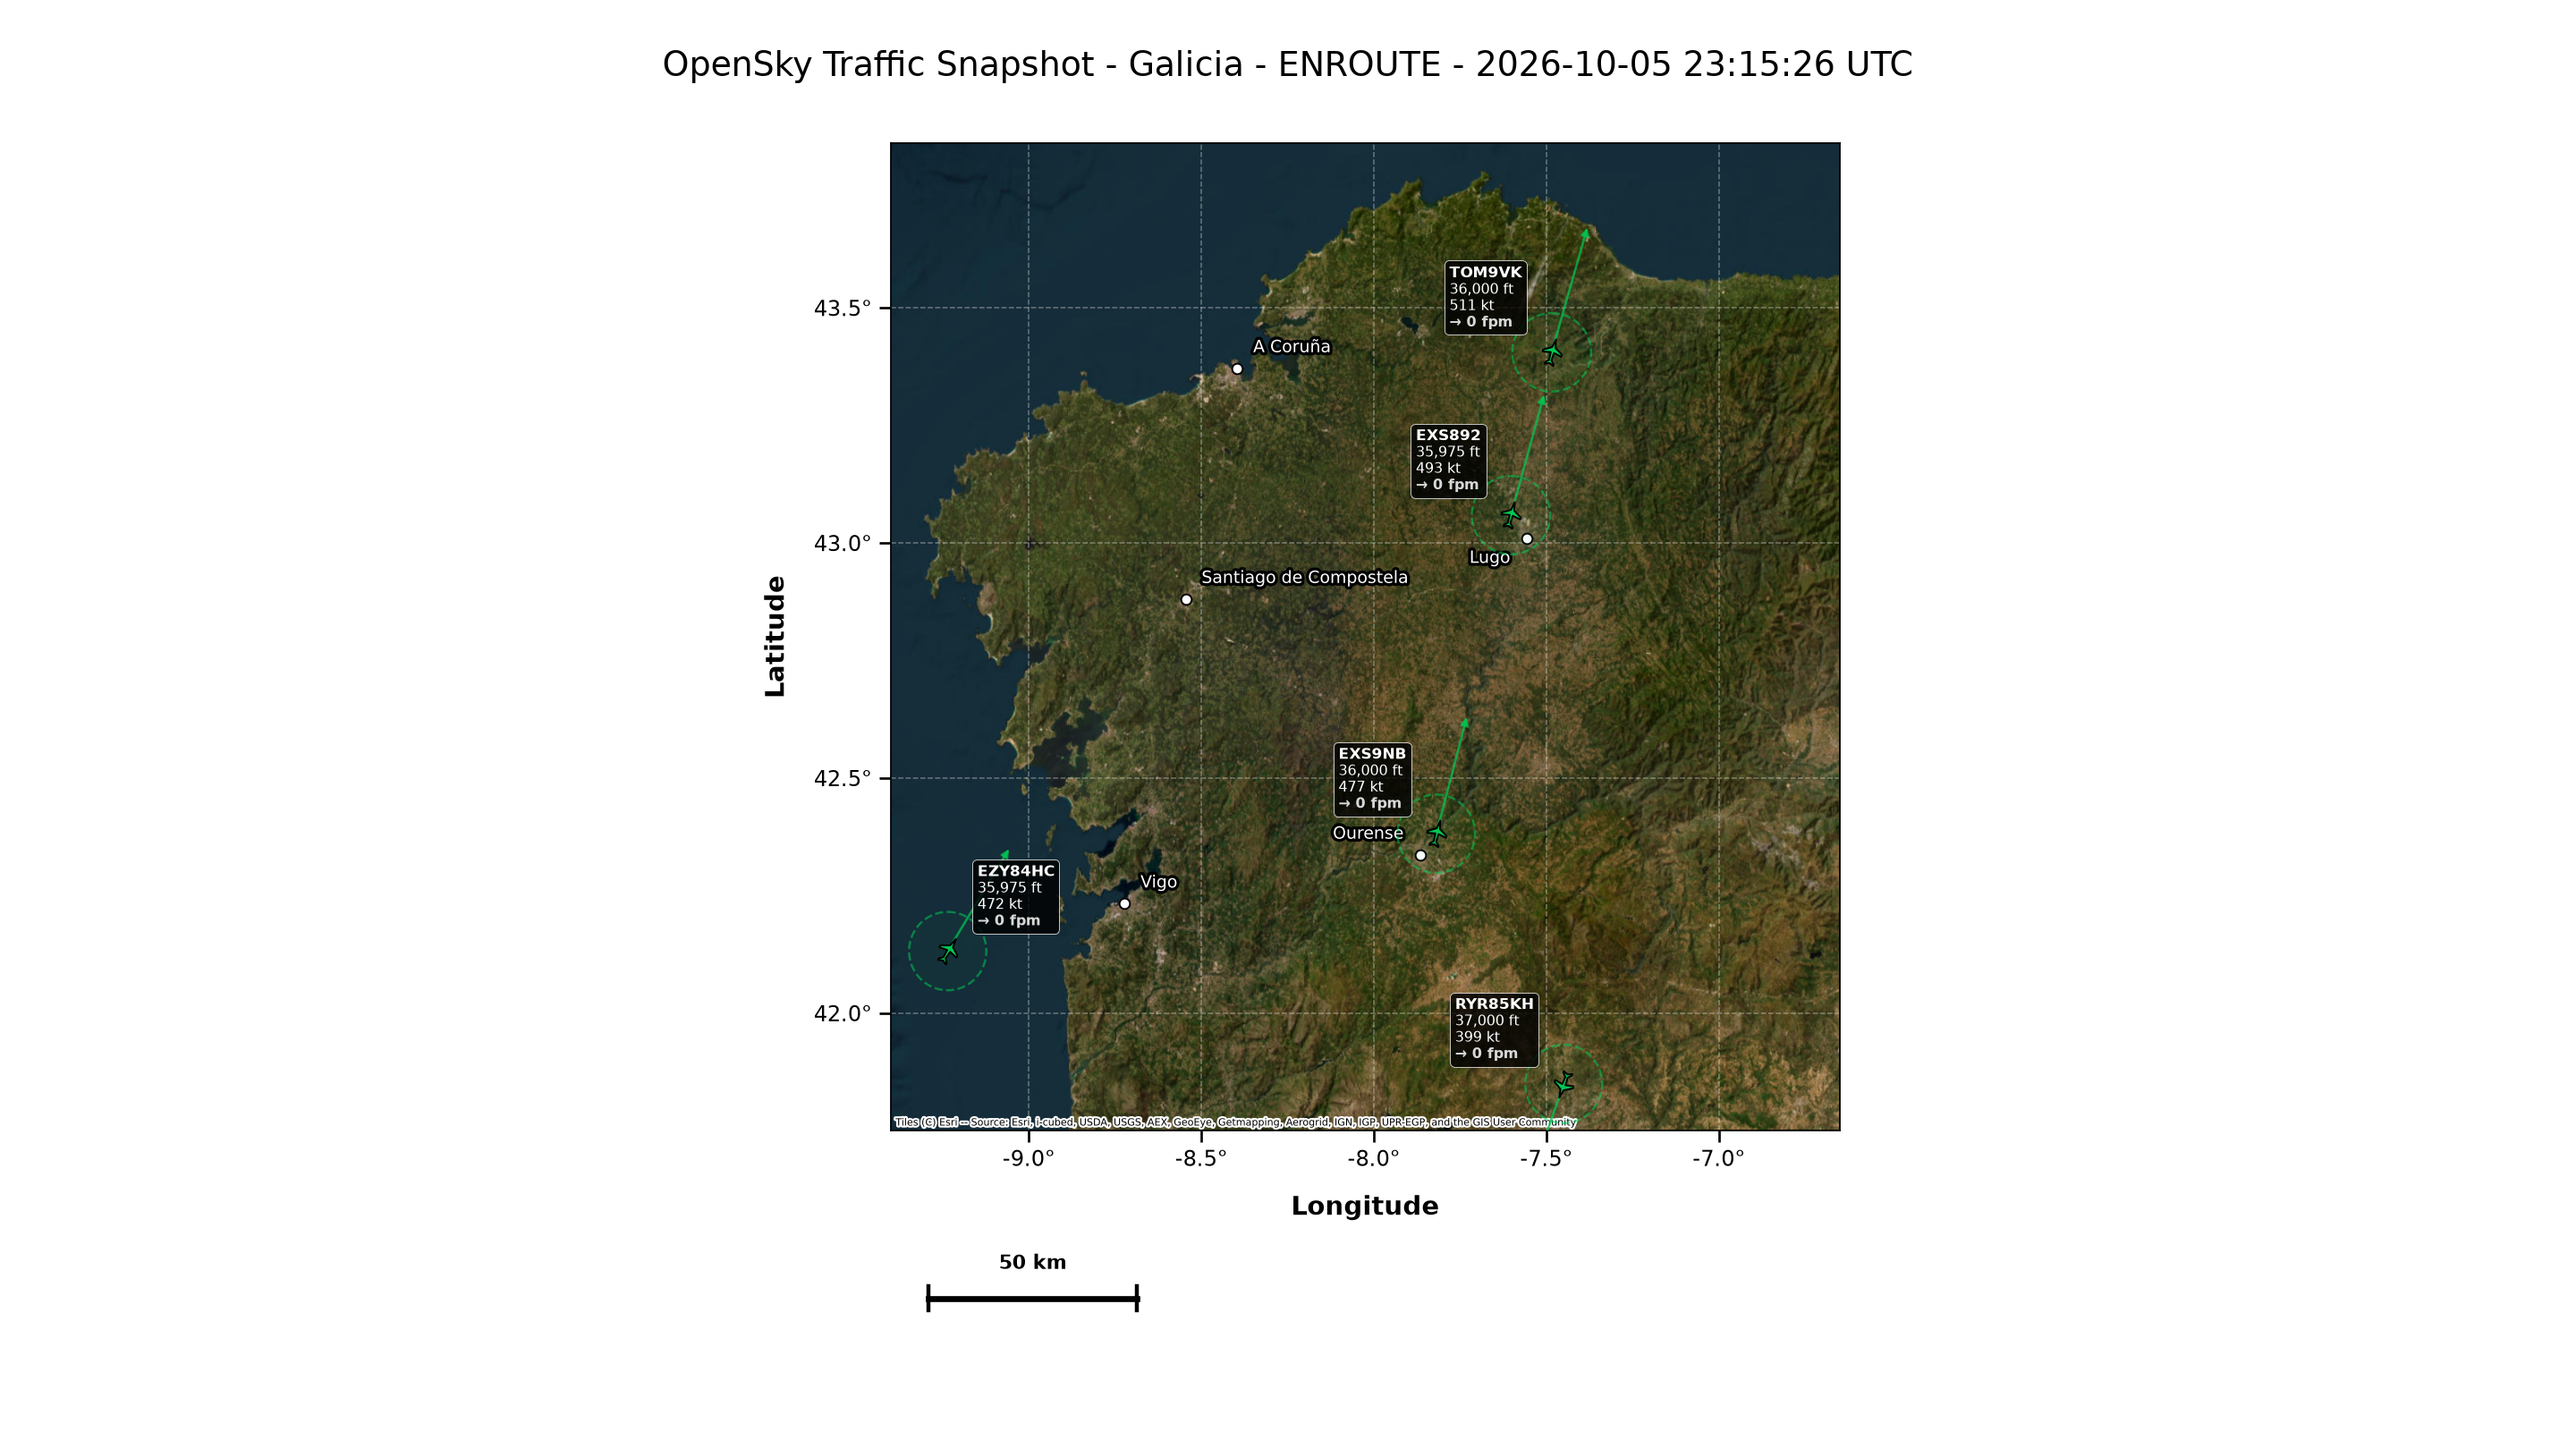
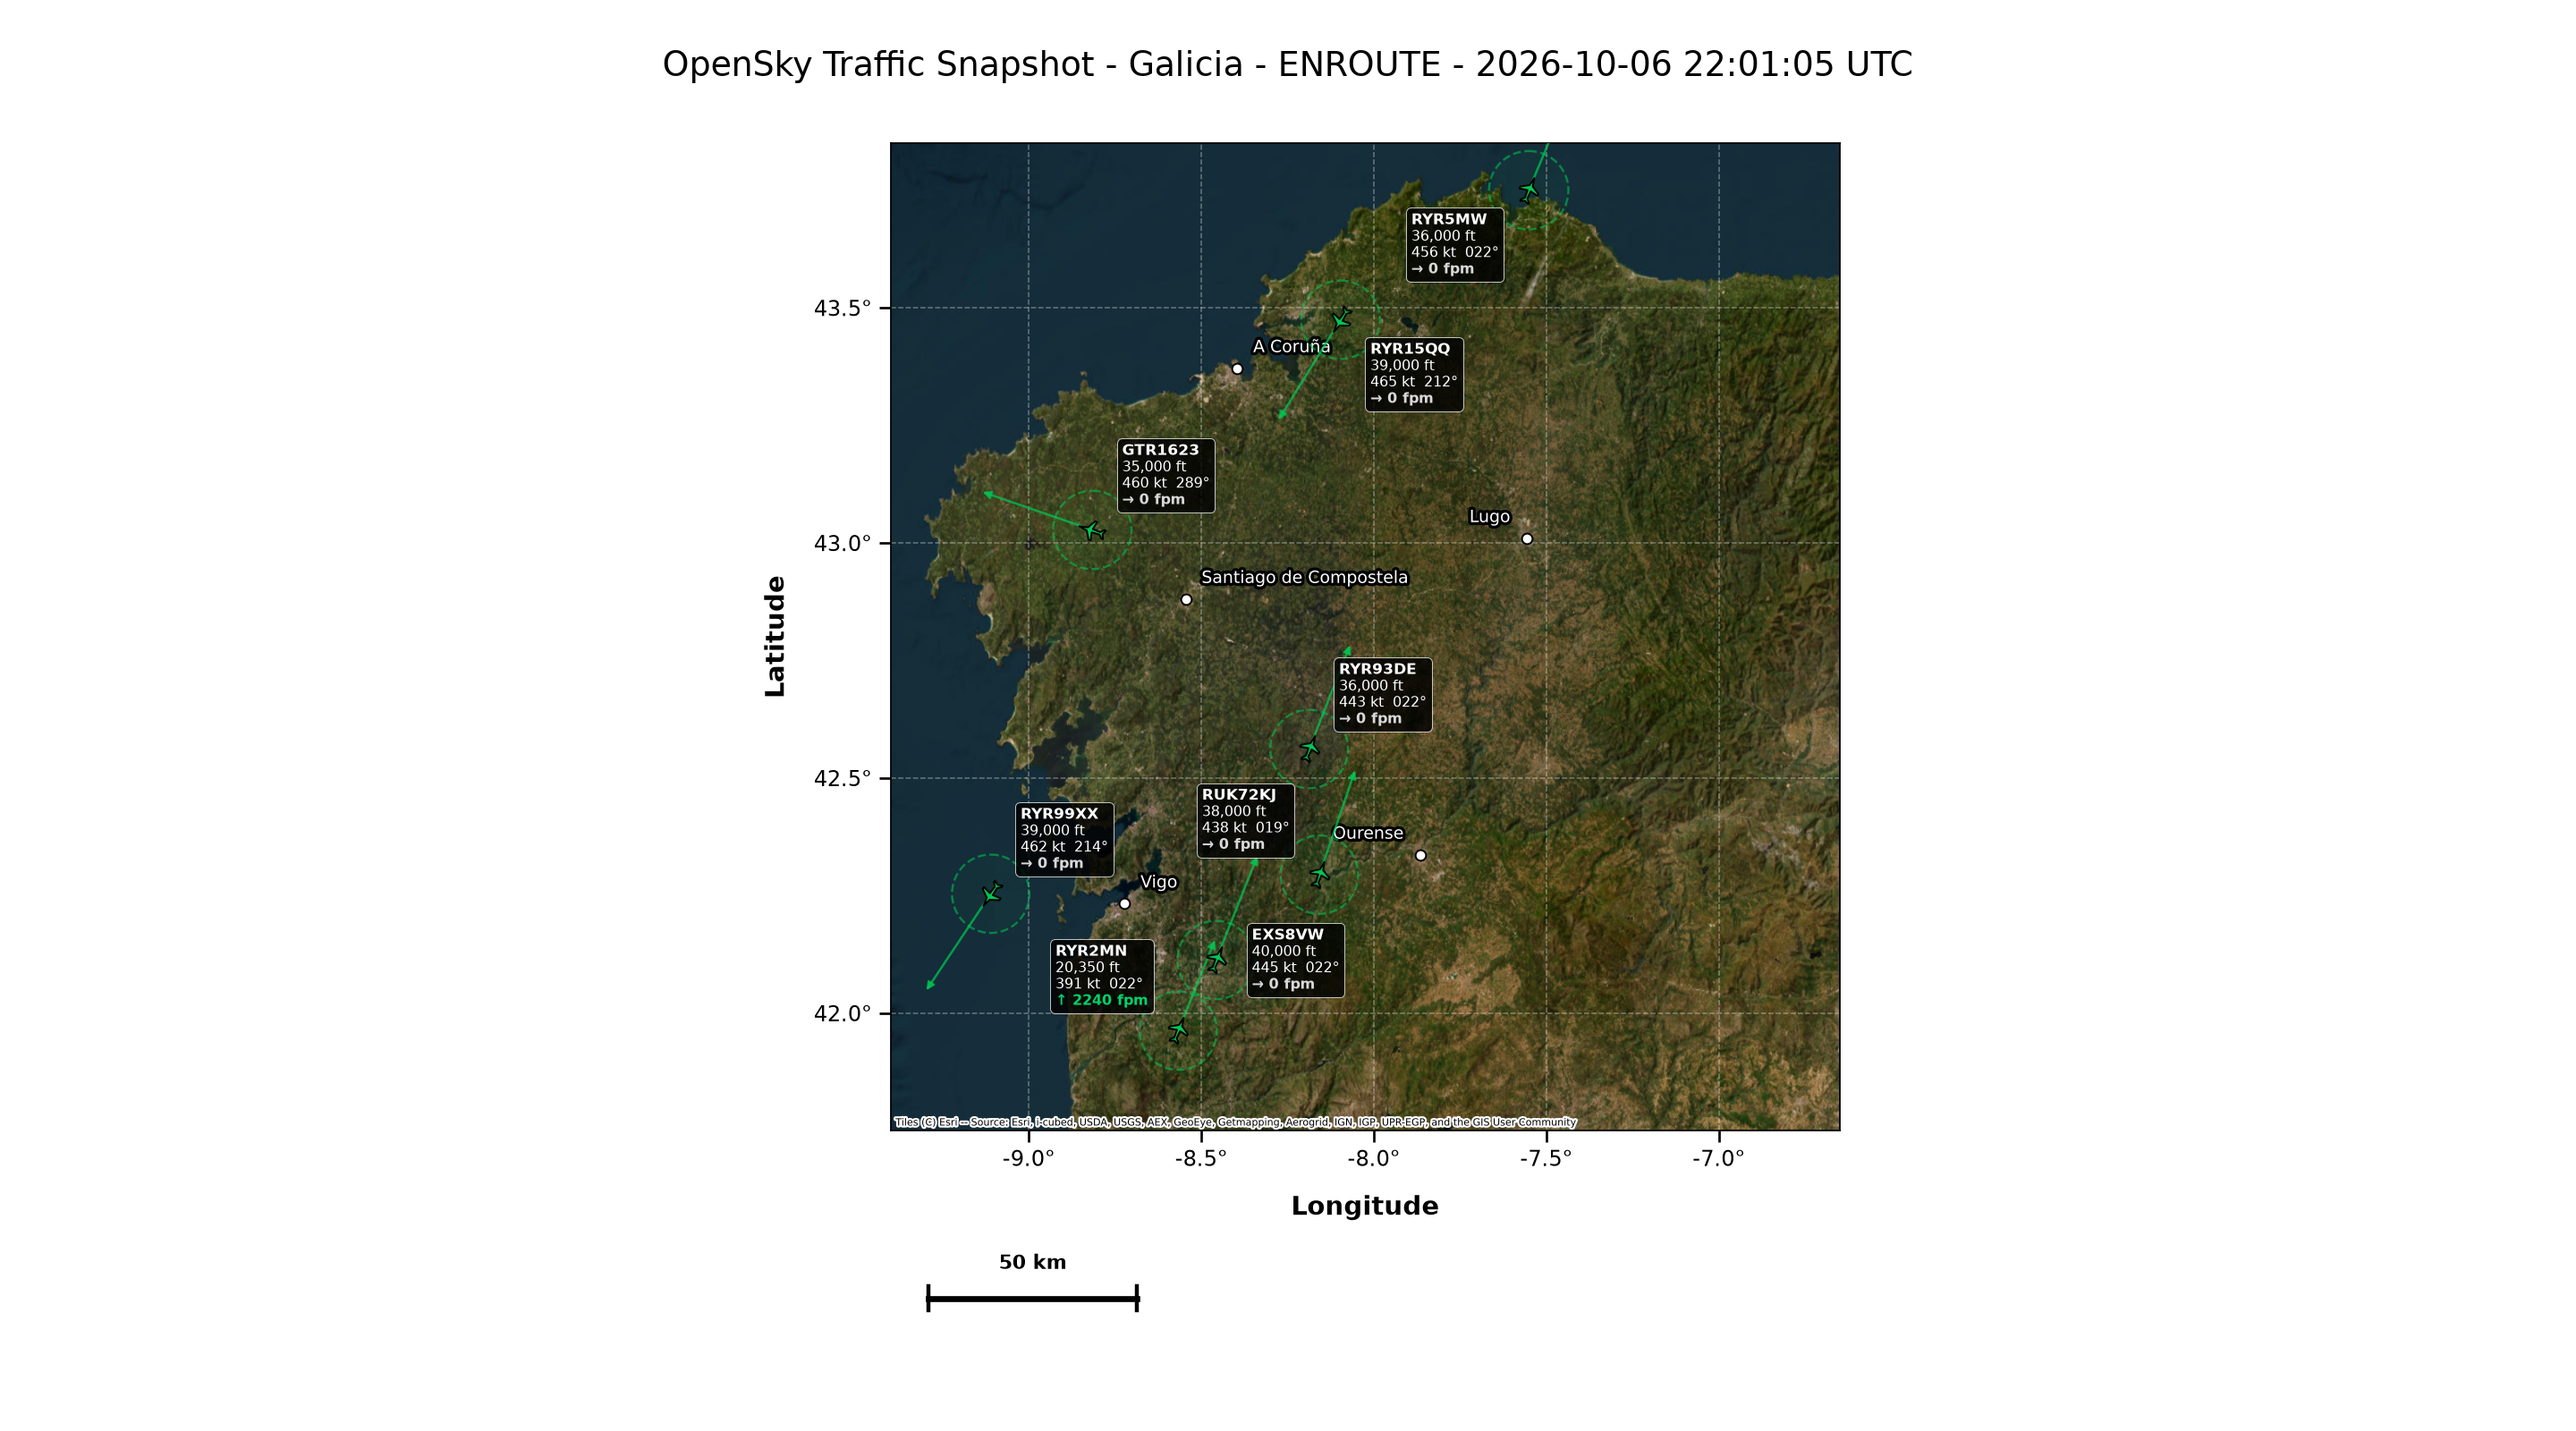
Document dependencies and historical data outputs

diff --git a/src/acquisition/opensky_snapshot.py b/src/acquisition/opensky_snapshot.py
@@ -35,6 +35,7 @@ import geonamescache
 #   "BBOX"
 
 AREA_MODE = "BBOX"
+#AREA_MODE = "CENTER_RADIUS"
 
 
 # ------------------------------------------------------------
@@ -154,6 +155,18 @@ CUSTOM_BBOX = {
 
     "lomin": -9.40,
     "lomax": -6.65,
+
+    "extended": 1,
+}
+
+CUSTOM_BBOX_NAME = "Northern Spain"
+
+CUSTOM_BBOX = {
+    "lamin": 41.50,
+    "lamax": 44.00,
+
+    "lomin": -3.50,
+    "lomax": 1.50,
 
     "extended": 1,
 }
@@ -2537,14 +2550,10 @@ def build_aircraft_label_box(
 
     if SHOW_GROUND_SPEED:
 
-
         speed = row.get(
-
             "velocity_kts",
-
             np.nan,
         )
-
 
         if (
             pd.notna(speed)
@@ -2552,12 +2561,40 @@ def build_aircraft_label_box(
             np.isfinite(speed)
         ):
 
+            # True track measured clockwise
+            # from geographic (true) north.
+            track = row.get(
+                "true_track",
+                np.nan,
+            )
+
+            if (
+                pd.notna(track)
+                and
+                np.isfinite(track)
+            ):
+
+                track_deg = (
+                    int(round(float(track)))
+                    % 360
+                )
+
+                speed_text = (
+                    f"{speed:.0f} kt  "
+                    f"{track_deg:03d}°"
+                )
+
+            else:
+
+                speed_text = (
+                    f"{speed:.0f} kt"
+                )
 
             lines.append(
 
                 TextArea(
 
-                    f"{speed:.0f} kt",
+                    speed_text,
 
                     textprops={
 
@@ -2569,7 +2606,6 @@ def build_aircraft_label_box(
                     },
                 )
             )
-
 
     if SHOW_VERTICAL_SPEED:
 

diff --git a/src/acquisition/download_opensky_monday_states.py b/src/acquisition/download_opensky_monday_states.py
@@ -111,7 +111,8 @@ REGIONS = {
 # Output directory
 # ------------------------------------------------------------
 
-OUTPUT_ROOT = Path("data/opensky_weekly")
+PROJECT_ROOT = Path(__file__).resolve().parents[2]
+OUTPUT_ROOT = PROJECT_ROOT / "data" / "raw" / "opensky_weekly"
 
 
 # ------------------------------------------------------------

diff --git a/src/acquisition/README.md b/src/acquisition/README.md
@@ -23,6 +23,8 @@ It writes the raw snapshot to `data/raw/opensky/opensky_snapshot.csv` and the
 visualisation to `results/figures/opensky_snapshot_map.png`. The script also
 reports aircraft states, altitude and speed information, pairwise proximity and
 conflict/proximity warnings according to its configured research thresholds.
+Each trajectory vector is annotated at its tip with the three-digit true track
+relative to geographic north, such as `072°` or `250°`.
 
 ### `opensky_collect.py`
 
@@ -81,11 +83,11 @@ Run it from the repository root:
 python src/acquisition/download_opensky_monday_states.py
 ```
 
-By default, results are written under `data/opensky_weekly/`, partitioned by
+By default, results are written under `data/raw/opensky_weekly/`, partitioned by
 region, year, date and hour:
 
 ```text
-data/opensky_weekly/
+data/raw/opensky_weekly/
 ├── GALICIA/
 │   └── year=2022/date=2022-06-27/states_2022-06-27-00.parquet
 └── _completed/
@@ -97,12 +99,15 @@ resume without downloading an already processed hour. The global source files
 are temporary; the retained data is the geographically filtered regional output.
 Configure `CHUNK_SIZE` according to available memory, and set
 `KEEP_ONLY_AIRBORNE = True` if ground aircraft should be excluded. Parquet
-output requires a suitable pandas engine such as `pyarrow`.
+output requires a suitable pandas engine such as `pyarrow`. Historical files are
+kept under `data/raw/opensky_weekly/` because they are downloaded source-derived
+data and should not be committed unless redistribution and storage are explicitly
+intended.
 
 ## Dependencies and reproducibility
 
-The scripts require Python packages including `requests`, `pandas`, `numpy`,
-`matplotlib`, `contextily`, `pyproj`, `geonamescache` and `pyarrow`. The exact dependency
-manifest will be formalised in the root `requirements.txt`. Raw data and maps
+The scripts require the packages listed in the root `requirements.txt`, including
+`requests`, `pandas`, `numpy`, `matplotlib`, `contextily`, `pyproj`,
+`geonamescache` and `pyarrow`. Raw data and maps
 should be generated into the repository folders described above, not next to the
 source scripts.

diff --git a/results/figures/README.md b/results/figures/README.md
@@ -13,6 +13,8 @@ configured area of interest. It combines:
 - aircraft positions from the OpenSky state-vector response;
 - a geographic basemap, when the map-tile service is available;
 - aircraft labels and movement vectors based on heading and ground speed;
+- three-digit true-track labels at the tip of each movement vector, measured
+  clockwise from geographic north (for example, `072°` or `250°`);
 - altitude, vertical-speed and ground/airborne information used in the display;
 - pairwise proximity or conflict-warning annotations according to the configured
   horizontal and vertical research thresholds.
@@ -29,10 +31,12 @@ python src/acquisition/opensky_snapshot.py
 ```
 
 The script queries the OpenSky states API, processes the response and saves the
-configured map in `results/figures/`. The corresponding processed snapshot is
-saved as `data/raw/opensky/opensky_snapshot.csv` for traceability. If several
-configurations are being compared, rename or copy the generated PNGs to retain
-distinct names such as the examples above.
+default map as `results/figures/opensky_snapshot_map.png`. The corresponding
+processed snapshot is saved as `data/raw/opensky/opensky_snapshot.csv` for
+traceability. When several configurations are being compared, rename or copy
+each generated PNG immediately—for example, to `opensky_bcn_map.png`,
+`opensky_galicia_map.png` or `opensky_spain_north_map.png`—so later runs do not
+overwrite the preserved figures.
 
 The geographic scope is controlled in the script. `AREA_MODE="BBOX"` uses
 `CUSTOM_BBOX`; `AREA_MODE="CENTER_RADIUS"` derives a bounding box around the

diff --git a/README.md b/README.md
@@ -102,7 +102,7 @@ The folders have the following responsibilities:
   is for cleaned or transformed data, and `samples/` is for small datasets used in
   examples and tests. The original ILS documents are under `data/raw/ils/` and
   OpenSky snapshots under `data/raw/opensky/`. Historical regional Parquet output
-  is generated under `data/opensky_weekly/` and is intentionally not committed as
+  is generated under `data/raw/opensky_weekly/` and is intentionally not committed as
   part of the source repository.
 - `src/`: reusable project code, organised by research stage. See
   [`src/README.md`](src/README.md).
@@ -114,8 +114,7 @@ The folders have the following responsibilities:
 - `docs/`: thesis-related and technical documentation.
 - `tests/`: automated tests for the source code and data-processing pipeline.
 - `README.md`, `LICENSE` and `requirements.txt`: project entry-point documentation,
-  licensing information and Python dependencies respectively. `requirements.txt`
-  will be added when the dependency set is stabilised.
+  licensing information and Python dependencies respectively.
 
 ## ⚠ Conflict Detection Model
 
